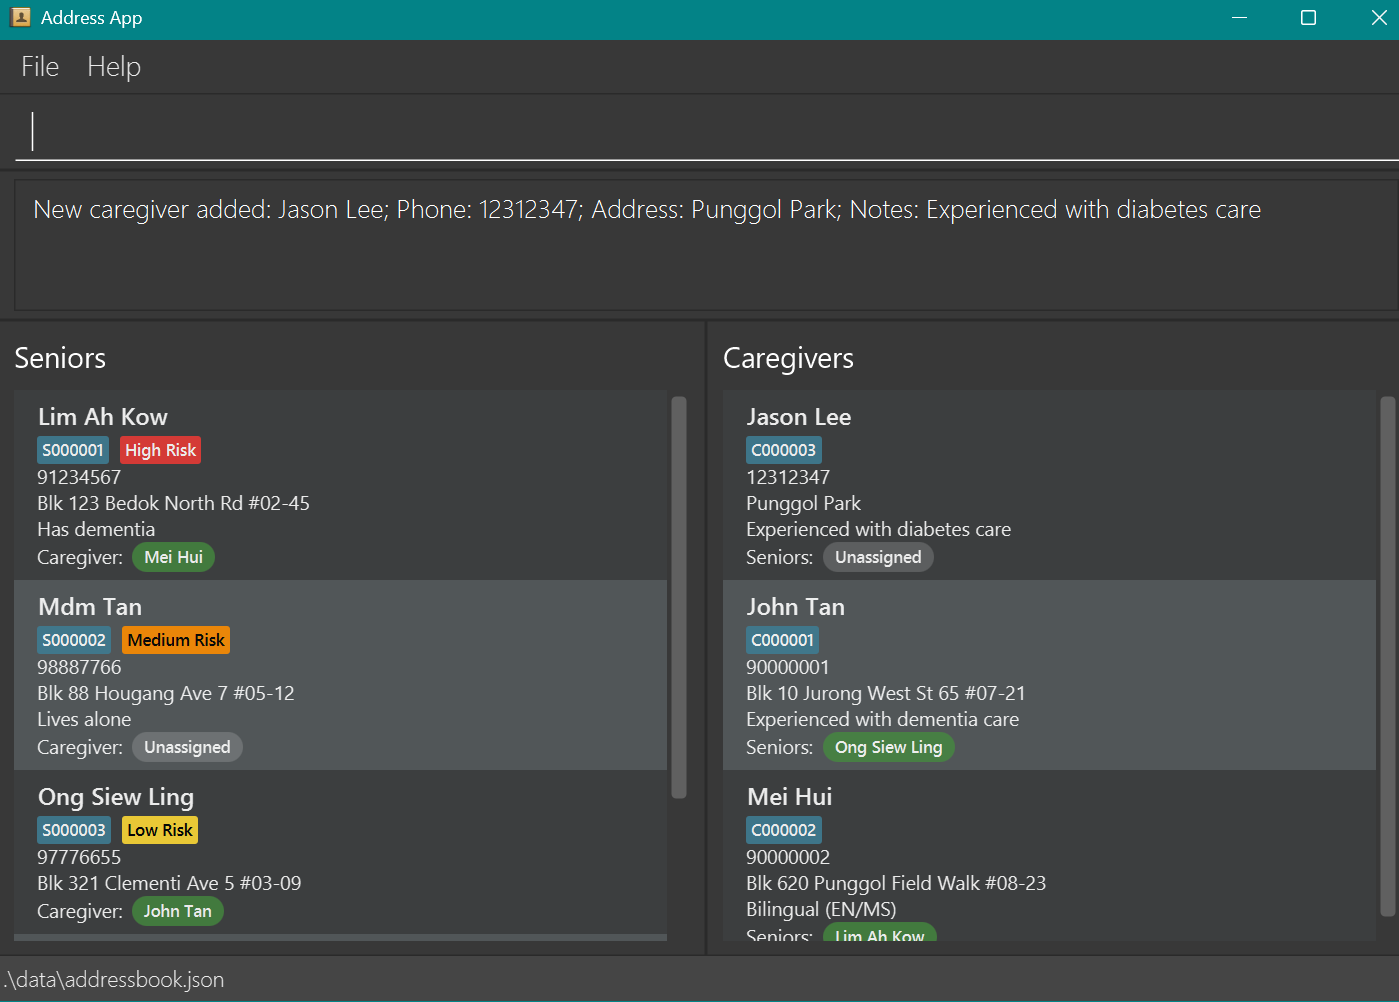
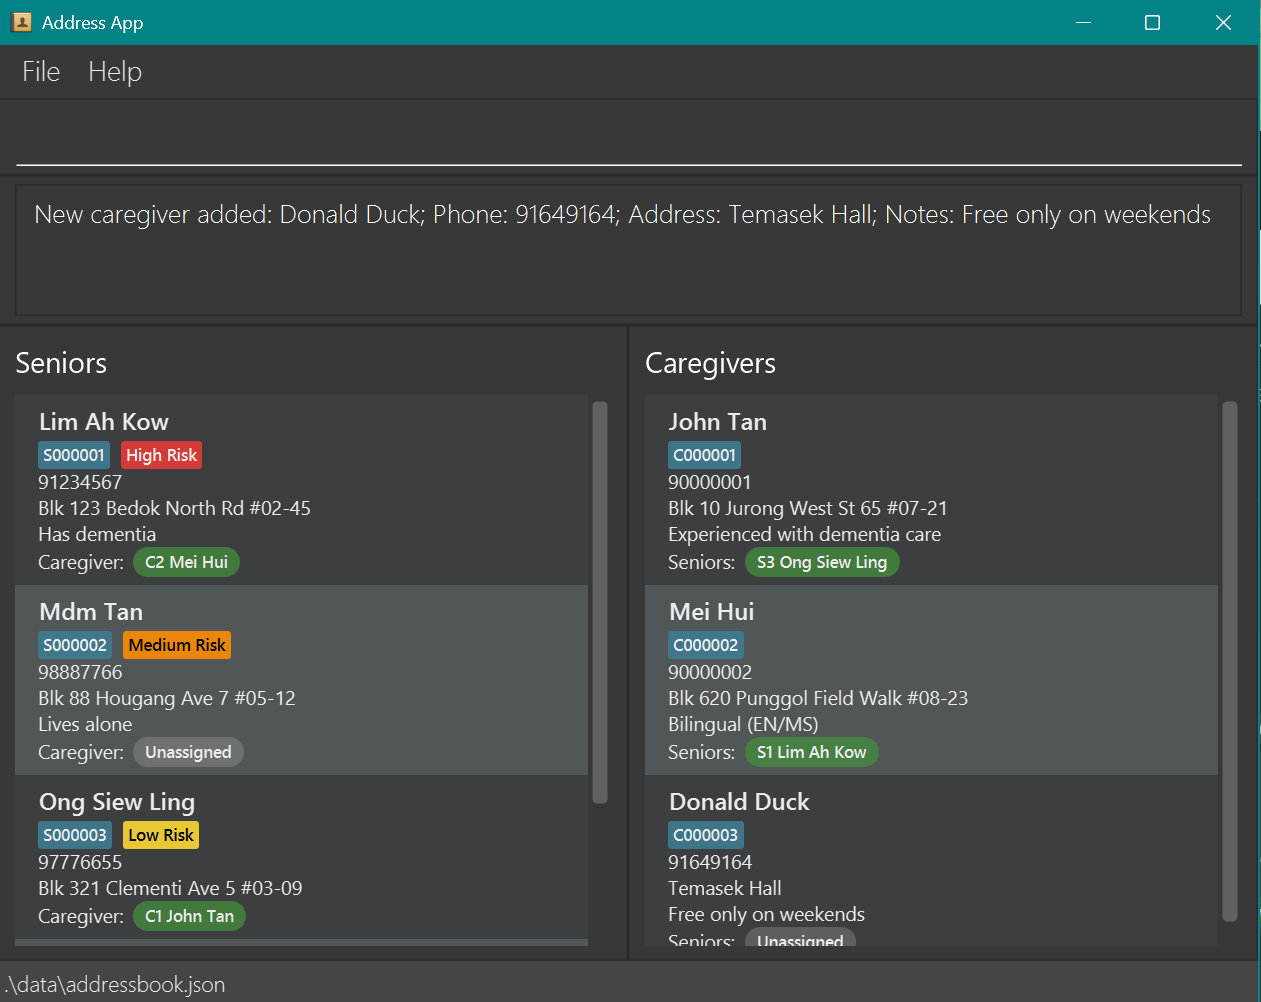
Replace userguide images

Changed region(s): [[0.0, 0.0, 1.0, 1.0], [0.4948, 0.3403, 0.6186, 0.3713], [0.0, 0.3403, 0.0928, 0.3713]]

diff --git a/docs/UserGuide.md b/docs/UserGuide.md
@@ -152,7 +152,7 @@ Examples:
 * `find John` returns `john` and `John Doe`
 * `find alex david` returns `Alex Yeoh`, `David Li`<br>
 
-  ![result for 'find alex david'](images/findAlexDavidResult.png)
+  ![result for 'find command'](images/find-command.png)
 
 ### Filtering seniors by risk tag: `filter`
 
